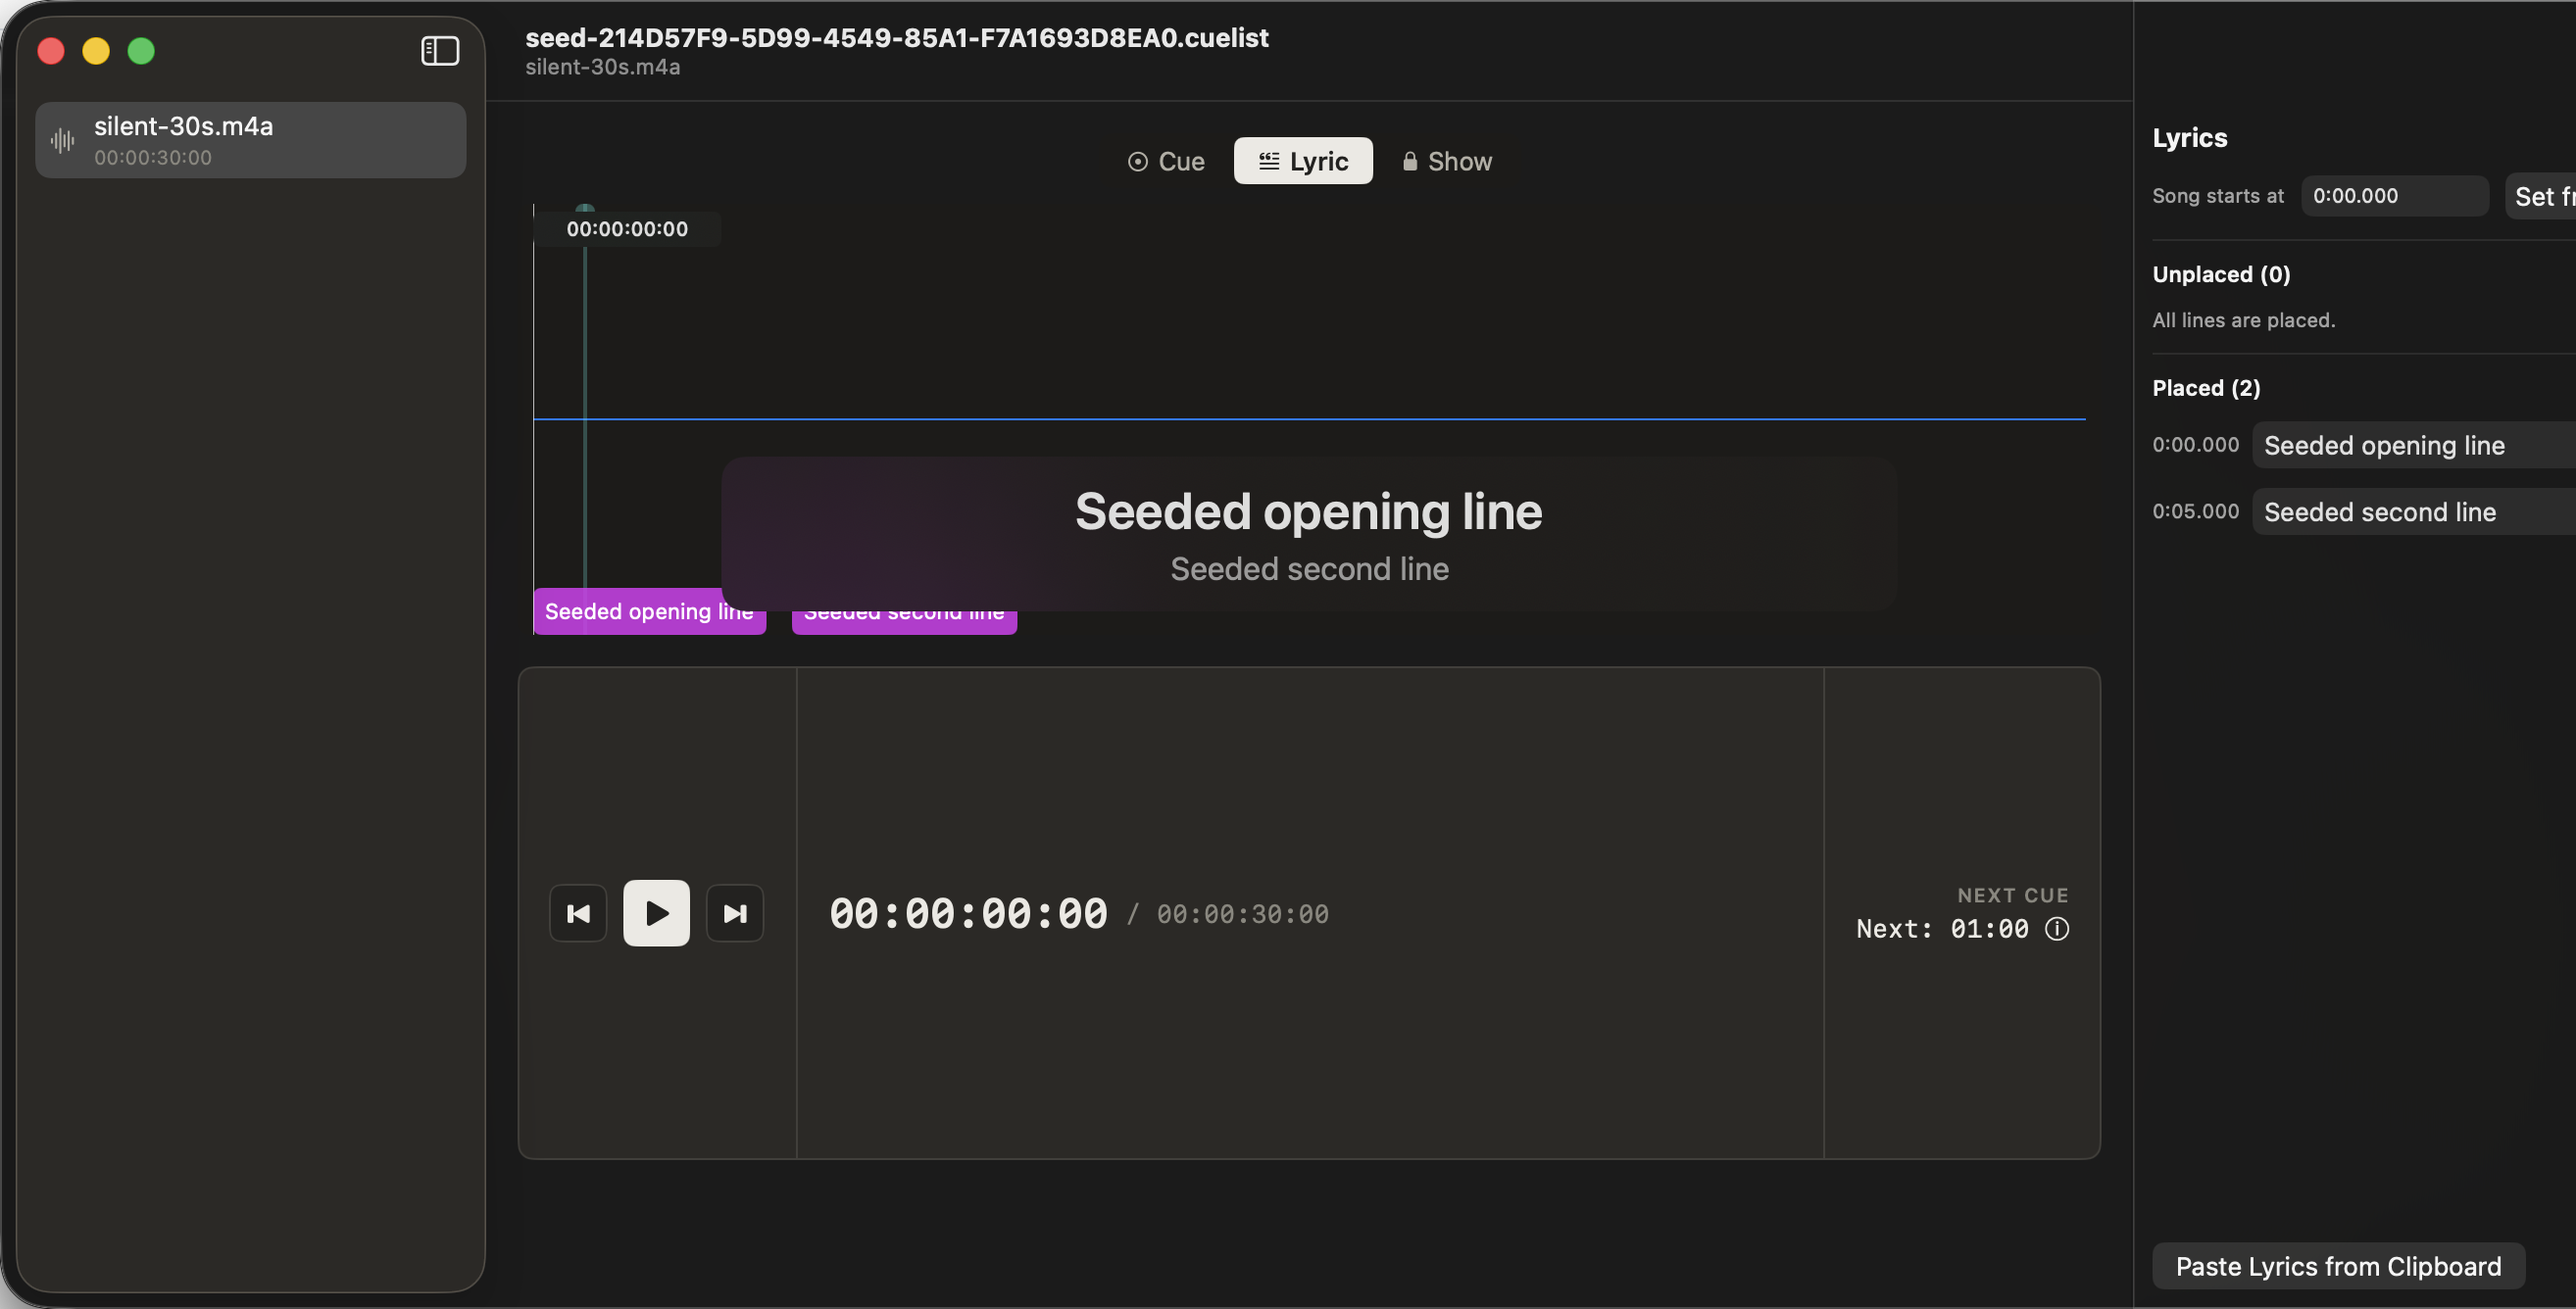
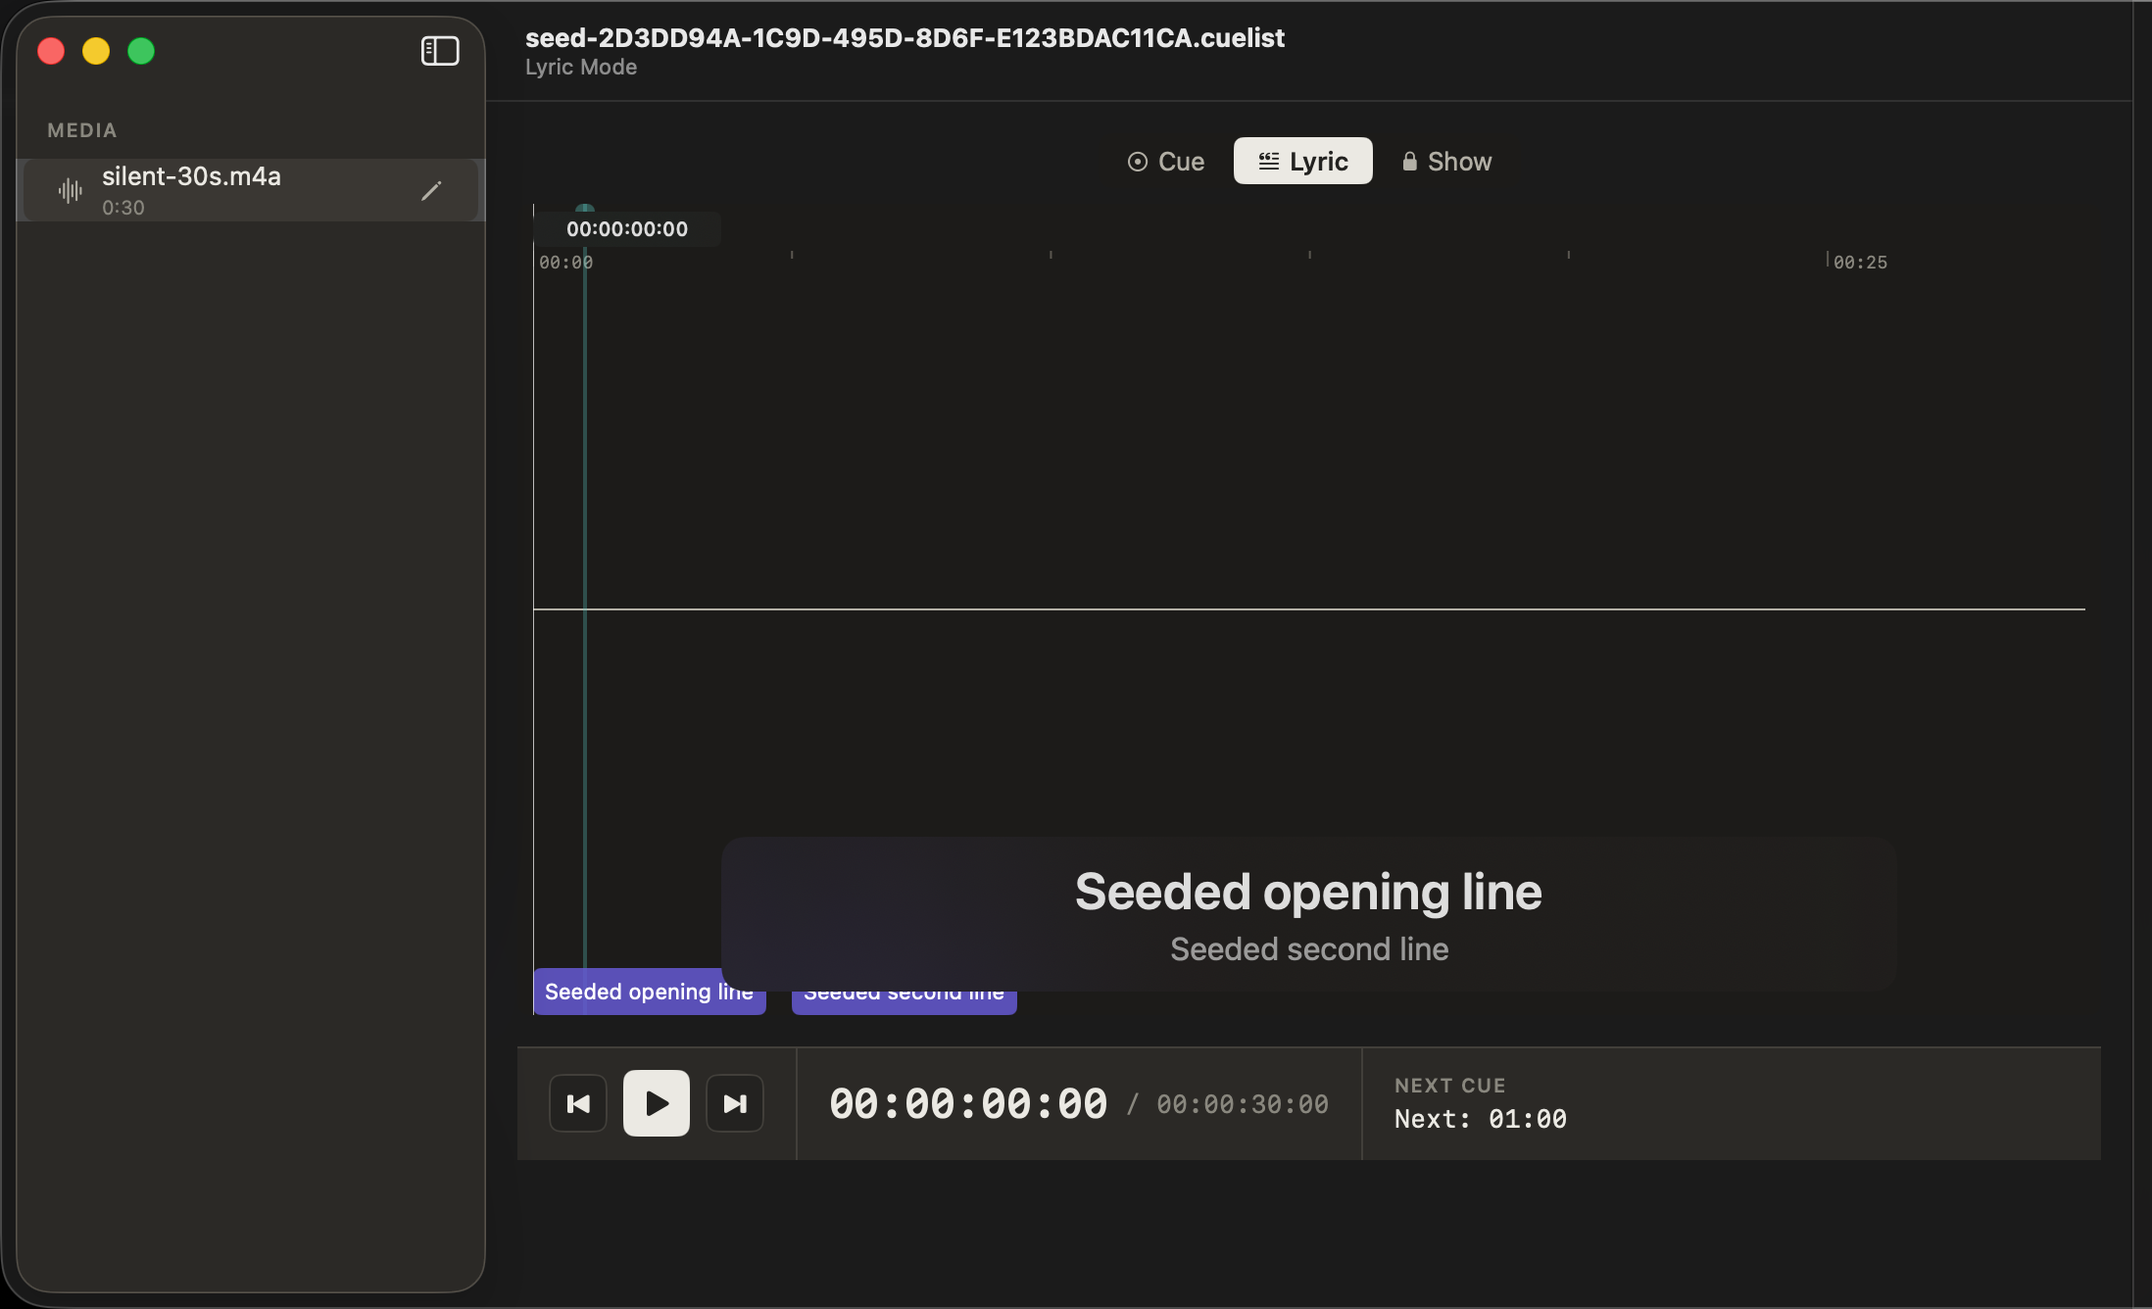
test(ui): add the figma fidelity gate — consolidated fidelity tests + process doc
FigmaFidelityTests pins the load-bearing, Figma-derived values (dark-only
chrome, achromatic waveform, cue-list TIME floor, preview video/waveform
split, compact durations) in one greppable, renderer-independent gate that
fails CI on drift. docs/design/fidelity-gate.md documents the three-layer
process (coordinate audits, structural assertions, visual baseline pairs)
and the PR checklist; refreshes the app-*-dark.png baselines paired with the
Figma reference frames. Automated in-CI pixel-diff is specced as a follow-up.

Closes #493

diff --git a/OnlyCueTests/FigmaFidelityTests.swift b/OnlyCueTests/FigmaFidelityTests.swift
@@ -1,0 +1,64 @@
+import XCTest
+import SwiftUI
+import AppKit
+@testable import OnlyCue
+
+/// The consolidated figma↔app fidelity contract. Each assertion pins a
+/// load-bearing value to its Figma spec (node id in the comment) so a
+/// regression fails CI deterministically — these are renderer-independent,
+/// unlike a pixel diff. Per-feature suites (DSColorTests, WaveformViewColorTests,
+/// CueListColumnWidthsTests, PreviewLayoutTests, CompactDurationTests) hold the
+/// exhaustive cases; this file is the single greppable gate and the canonical
+/// list of "things that must keep matching the design system".
+///
+/// Process for keeping this honest lives in `docs/design/fidelity-gate.md`.
+final class FigmaFidelityTests: XCTestCase {
+
+    /// Resolves a token's red sRGB component under a given appearance.
+    private func red(of color: Color, appearance name: NSAppearance.Name) throws -> CGFloat {
+        let appearance = try XCTUnwrap(NSAppearance(named: name))
+        var resolved: NSColor?
+        appearance.performAsCurrentDrawingAppearance {
+            resolved = NSColor(color).usingColorSpace(.sRGB)
+        }
+        return try XCTUnwrap(resolved).redComponent
+    }
+
+    /// Dark-only main window (ADR-029): chrome resolves dark even under Light.
+    func test_darkOnlyChrome() throws {
+        XCTAssertLessThan(try red(of: DS.Color.surface, appearance: .aqua), 0.2)
+        XCTAssertGreaterThan(try red(of: DS.Color.textPrimary, appearance: .aqua), 0.85)
+        XCTAssertEqual(AppAppearance.production, .darkAqua)
+    }
+
+    /// Achromatic waveform (ADR-024 / Figma 318:1254): a DS neutral, not the accent.
+    func test_waveformIsAchromatic() {
+        XCTAssertEqual(WaveformView(peaks: []).color, DS.Color.textSecondary)
+        XCTAssertNotEqual(WaveformView(peaks: []).color, DS.Color.cueIndigo)
+    }
+
+    /// Cue-list TIME column (Figma 318:1320) keeps the full 11-char SMPTE on one
+    /// line: its floor must fit `HH:MM:SS:FF` (~86pt at 13pt monospaced).
+    func test_cueTimeColumnFitsSMPTE() {
+        XCTAssertGreaterThanOrEqual(CueListColumnWidths.timeRange.lowerBound, 88)
+        XCTAssertTrue(CueListColumnWidths.timeRange.contains(CueListColumnWidths.timeDefault))
+    }
+
+    /// Preview video/waveform split (Figma 318:1639): the waveform band is a
+    /// ~quarter of the well, and the video stays dominant (band <= half).
+    func test_previewVideoSplitProportion() {
+        let band = PreviewLayout.videoTimelineHeight(totalHeight: 602, breakdown: false)
+        XCTAssertEqual(band, 602 * 0.26, accuracy: 1)
+        XCTAssertLessThanOrEqual(
+            PreviewLayout.videoTimelineHeight(totalHeight: 200, breakdown: false),
+            100
+        )
+    }
+
+    /// Sidebar clip durations are compact m:ss (ADR-028 amendment / Figma 318:1238),
+    /// not framerate SMPTE.
+    func test_sidebarDurationsAreCompact() {
+        XCTAssertEqual(TimeFormat.compactDuration(222), "3:42")
+        XCTAssertEqual(TimeFormat.compactDuration(3700), "1:01:40")
+    }
+}

diff --git a/docs/design/fidelity-gate.md b/docs/design/fidelity-gate.md
@@ -1,0 +1,38 @@
+# Figma ↔ App fidelity gate
+
+How OnlyCue keeps the app matching the Figma design system, and how to stop drift from recurring. Written after the 2026-06-05 audit (`figma-audit-2026-06-05.md`) found 88 deltas that had accumulated because comparison was ad-hoc (eyeballing screenshots) with no enforcement.
+
+## Why drift kept happening
+
+1. **Eyeballing, not measuring.** Differences were spotted by looking at screenshots and fixing the obvious surface ones (colors, text). Layout/proportion gaps (e.g. the waveform pinned to 100pt vs Figma's ~602pt) are invisible to a casual look and obvious the moment you read Figma's coordinates.
+2. **No enforcement.** Screenshot tests captured baselines that a human compared; nothing *failed* when the app drifted, so gaps surfaced only when someone looked again.
+3. **Region-scoped passes.** Each fix touched the noticed area and stopped; un-audited regions were never checked.
+
+## The gate (three layers)
+
+### 1. Coordinate-level audits (find drift)
+
+Compare against Figma's actual measurements, not a screenshot. For each region, pull `get_metadata` (exact x/y/w/h of every node) via the Figma MCP and diff against the app code. The 2026-06-05 sweep did this with one agent per region; re-run the same way when the design changes. Output: a per-delta list (element, Figma spec, app value, severity, fix) like `figma-audit-2026-06-05.md`.
+
+Frame/node references live in the audit doc and in `memory/figma-design-system.md`.
+
+### 2. Structural assertions (catch regressions in CI, deterministically)
+
+`OnlyCueTests/FigmaFidelityTests.swift` is the single greppable contract: each load-bearing, Figma-derived value is asserted with its node id (dark-only chrome, achromatic waveform, the cue-list TIME floor, the preview video/waveform split, compact durations, …). These are renderer-independent, so they pass/fail identically on every machine. Per-feature suites (`DSColorTests`, `WaveformViewColorTests`, `CueListColumnWidthsTests`, `PreviewLayoutTests`, `CompactDurationTests`) hold the exhaustive cases.
+
+**When you add or change a main-window surface:** pull its Figma `get_metadata`, implement to those numbers, and add/adjust the matching assertion here. New chrome must also consume `DS.*` tokens (enforced by `TokenConformanceTests`, ADR-024).
+
+### 3. Visual baselines (human review for pixel-level fidelity)
+
+`docs/design/audit-screenshots/` holds the Figma reference frames (`figma-*-dark.png`) paired with the app captures (`app-*-dark.png`). The `*ScreenshotTests` regenerate the app captures deterministically (seeded, dark, playhead at 0 → no dynamic content). A reviewer diffs the pair at PR time for anything the structural assertions can't express (spacing rhythm, weight, exact fills).
+
+## PR review checklist (UI changes)
+
+- [ ] Pulled the relevant Figma node `get_metadata`; implemented to the measurements.
+- [ ] New/changed load-bearing values asserted in `FigmaFidelityTests` (with node id).
+- [ ] New chrome consumes `DS.*` tokens (TokenConformance passes).
+- [ ] Regenerated the affected `app-*-dark.png` baseline and eyeballed it against `figma-*-dark.png`.
+
+## Future increment: automated pixel-diff in CI
+
+A test that loads a committed golden PNG (as a test-bundle resource), captures the app in the matching seeded state, and fails on mean-pixel-difference above a tolerance — with dynamic regions (timecodes) masked. Deferred, not done, because: the UI-test runner is sandboxed (golden must be a bundled resource, not a repo path read), and a live AppKit render vs a committed golden carries cross-machine render noise (font hinting, retina scale) that needs a tuned tolerance to avoid false reds. Tracked in the consolidated follow-up. Until then, layer 3 is the human-reviewed pixel check and layer 2 is the automated gate.
